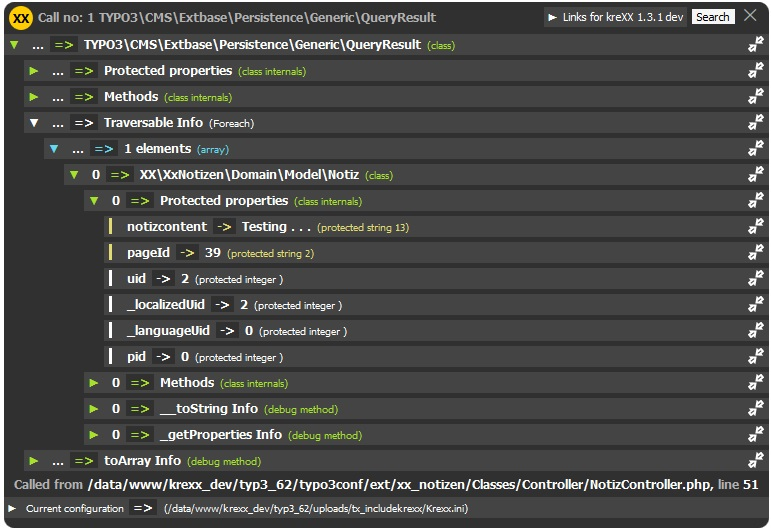
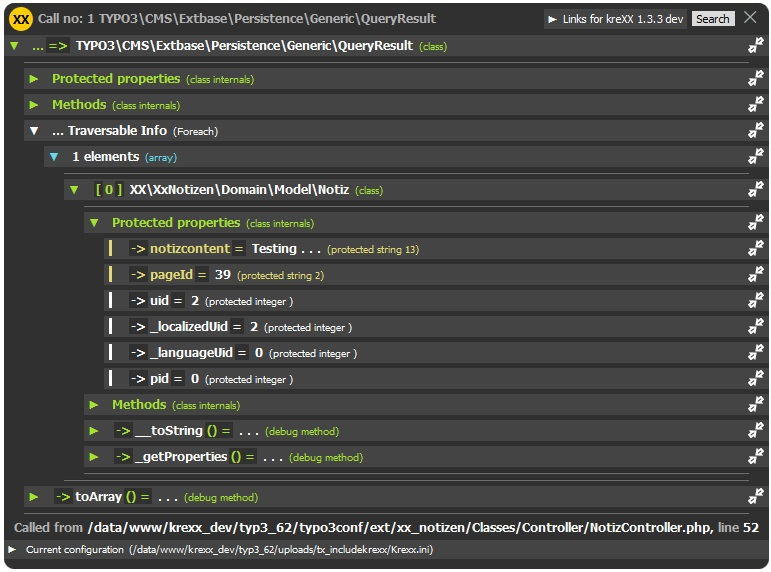
- Updated to the latest dev version - Added local browser settings menu in the backend - Updated documentation

diff --git a/includekrexx/Resources/Private/Layouts/Backend.html b/includekrexx/Resources/Private/Layouts/Backend.html
@@ -61,7 +61,7 @@ select:disabled {
 }
 
 .krexx-config img {
-  padding: 3px;
+  margin: 3px;
   cursor: help;
 }
 a.krexx-link {
@@ -79,17 +79,27 @@ select {
   margin: 0 0.5em 0.5em 0!important;
   vertical-align: middle;
 }
+input {
+  margin-right: 3px;
+}
+label {
+  font-weight: normal;
+}
+
 .typo3-docheader-buttons {
   background-color: #dadada;
-  line-height: 27px;
-  height: 21px;
-  padding: 3px 24px;
+  height: 18px;
+  line-height: 0;
+  padding: 2px 24px;
 }
 
 .typo3-docheader-functions {
   background-color: #585858;
-  height: 22px;
+  height: 27px;
   padding: 0 24px;
+}
+td.cbx {
+  width: 330px;
 }
 
 </style>
@@ -98,6 +108,7 @@ select {
       <div class="typo3-docheader-functions">
         <f:be.menus.actionMenu>
           <f:be.menus.actionMenuItem label="Edit configuration file" controller="Index" action="editConfig" />
+          <f:be.menus.actionMenuItem label="Edit local browser settings" controller="Index" action="editLocalBrowserSettings" />
           <f:be.menus.actionMenuItem label="Edit FE configuration" controller="Index" action="editFeConfig" />
           <f:be.menus.actionMenuItem label="Usage help" controller="Index" action="usageHelp" />
           <f:be.menus.actionMenuItem label="Config help" controller="Index" action="configHelp" />

diff --git a/includekrexx/Resources/Private/Layouts/BackendSave.html b/includekrexx/Resources/Private/Layouts/BackendSave.html
@@ -148,6 +148,7 @@ toggle = function(checkbox) {
       <div class="typo3-docheader-functions">
           <f:be.menus.actionMenu>
             <f:be.menus.actionMenuItem label="Edit configuration file" controller="Index" action="editConfig" />
+            <f:be.menus.actionMenuItem label="Edit local browser settings" controller="Index" action="editLocalBrowserSettings" />
             <f:be.menus.actionMenuItem label="Edit FE configuration" controller="Index" action="editFeConfig" />
             <f:be.menus.actionMenuItem label="Usage help" controller="Index" action="usageHelp" />
             <f:be.menus.actionMenuItem label="Config help" controller="Index" action="configHelp" />

diff --git a/includekrexx/Resources/Private/Templates/Index/EditLocalBrowserSettings.html b/includekrexx/Resources/Private/Templates/Index/EditLocalBrowserSettings.html
@@ -1,0 +1,8 @@
+<f:layout name="Backend"/>
+<f:section name="main">
+  <p>
+    <h1>Edit local browser settings</h1>
+    Here you can edit the local browser settings. They are stored in a cookie, and only affect your current browser. Unlike the configuration file, not all settings can be edited here by default. This can be changed in the <i>Edit FE configuration</i> menu. Local browser settings overwrite configuration file settings.<br/><br/>
+    <b>Please note, that these settings only affect your current browser!</b>
+  </p>
+</f:section>

diff --git a/includekrexx/Resources/Private/Templates/Index/UsageHelp.html b/includekrexx/Resources/Private/Templates/Index/UsageHelp.html
@@ -46,4 +46,7 @@
   <div class="codeblock">
     <pre><code>\krexx::unregisterFatal();</code></pre>
   </div>
+  <h4>Mode datailed help</h4>
+  <a class="krexx-link" target="_blank" href="http://docs.typo3.org/typo3cms/extensions/includekrexx/">Documentation at Typo3 Docs</a><br/>
+  <a class="krexx-link" target="_blank" href="http://sourceforge.net/p/krexx/wiki/Overview/">Documentation at sourceforge</a>
 </f:section>

diff --git a/includekrexx/Resources/Private/krexx/resources/skins/hans/skin.css b/includekrexx/Resources/Private/krexx/resources/skins/hans/skin.css
@@ -589,5 +589,6 @@ li.kchild.krow hr {
   border-bottom: 1px solid rgba(255, 255, 255, 0.3);
   margin-right: 20px;
   margin-top: 0;
+  margin-bottom: 5px;
   background-color: transparent;
 }

diff --git a/includekrexx/Resources/Private/krexx/src/analysis/Variables.php b/includekrexx/Resources/Private/krexx/src/analysis/Variables.php
@@ -33,6 +33,7 @@
 
 namespace Brainworxx\Krexx\Analysis;
 
+use Brainworxx\Krexx\Framework\Toolbox;
 use Brainworxx\Krexx\View;
 
 /**
@@ -41,6 +42,35 @@ use Brainworxx\Krexx\View;
  * @package Krexx
  */
 class Variables {
+
+  /**
+   * List of all cahrsets that can be savely encoded via htmlentities().
+   *
+   * @var array
+   */
+  static protected $charsetList = array(
+    'UTF-8',
+    'ISO-8859-1',
+    'ISO-8859-5',
+    'ISO-8859-15',
+    'cp866',
+    'ibm866',
+    'cp1251',
+    'Windows-1251',
+    'cp1252',
+    'Windows-1252',
+    'KOI8-R',
+    'koi8r',
+    'BIG5',
+    'GB2312',
+    'Shift_JIS',
+    'SJIS',
+    'SJIS-win',
+    'cp932',
+    'EUC-JP',
+    'EUCJP',
+    'eucJP-win',
+  );
 
   /**
    * Render a 'dump' for a NULL value.
@@ -233,25 +263,25 @@ class Variables {
   public static function encodeString($data, $code = FALSE) {
     $result = '';
     // Try to encode it.
-    $encoding = mb_detect_encoding($data);
-    if (in_array($encoding, get_html_translation_table(HTML_ENTITIES))) {
-      set_error_handler(function() { /* do nothing. */ });
+    $encoding = mb_detect_encoding($data, self::$charsetList);
+    if ($encoding !== FALSE) {
+      set_error_handler(function () { /* do nothing. */ });
       $result = @htmlentities($data, NULL, $encoding);
       restore_error_handler();
       // We are also encoding @, because we need them for our chunks.
       $result = str_replace('@', '&#64;', $result);
     }
+
     // Check if encoding was successful.
     if (strlen($result) === 0 && strlen($data) !== 0) {
       // Something went wrong with the encoding, we need to
       // completely encode this one to be able to display it at all!
       $data = @mb_convert_encoding($data, 'UTF-32', mb_detect_encoding($data));
-      $char_array = unpack("N*", $data);
 
       if ($code) {
         // We are displaying sourcecode, so we need
         // to do some formatting.
-        $anon_function = function($n){
+        $anon_function = function ($n) {
           if ($n == 9) {
             // Replace TAB with two spaces, it's better readable that way.
             $result = '&nbsp;&nbsp;';
@@ -264,12 +294,23 @@ class Variables {
       }
       else {
         // No formatting.
-        $anon_function = function($n){
+        $anon_function = function ($n) {
           return "&#$n;";
         };
       }
-      $char_array = array_map($anon_function, $char_array);
-      $result = implode("", $char_array);
+
+      // Here we have another SPOF. When the string is large enough
+      // we will run out of memory!
+      // @see https://sourceforge.net/p/krexx/bugs/21/
+      // We will *NOT* return the unescaped string. Se we must check if it
+      // is small enough for the unpack().
+      // 100 kb should be save enough.
+      if (strlen($data) < 102400) {
+        $result = implode("", array_map($anon_function, unpack("N*", $data)));
+      }
+      else {
+        $result = 'This is a very large string with a none-standard encoding.' . "\n\n" . 'For security reasons, we must escape it, but it is too large for this. Sorry.';
+      }
     }
     else {
       if ($code) {

diff --git a/includekrexx/ext_tables.php b/includekrexx/ext_tables.php
@@ -47,7 +47,7 @@ if (TYPO3_MODE === 'BE') {
       // Position of the module.
       '',
       // Allowed controller action combinations.
-      array('Index' => 'editConfig,editFeConfig,usageHelp,configHelp,saveConfig,saveFeConfig'),
+      array('Index' => 'editConfig,editFeConfig,usageHelp,configHelp,saveConfig,saveFeConfig,editLocalBrowserSettings'),
       array(
         'access' => 'user,group',
         'icon' => 'EXT:includekrexx/ext_icon.gif',
@@ -65,7 +65,7 @@ if (TYPO3_MODE === 'BE') {
       // Position of the module.
       '',
       // Allowed controller action combinations.
-      array('Index' => 'editConfig,editFeConfig,usageHelp,configHelp,saveConfig,saveFeConfig'),
+      array('Index' => 'editConfig,editFeConfig,usageHelp,configHelp,saveConfig,saveFeConfig,editLocalBrowserSettings'),
       array(
         'access' => 'user,group',
         'icon' => 'EXT:includekrexx/ext_icon.gif',

diff --git a/includekrexx/ext_emconf.php b/includekrexx/ext_emconf.php
@@ -14,7 +14,7 @@ $EM_CONF[$_EXTKEY] = array(
   'title' => 'Include kreXX',
   'description' => 'kreXX is a php debugger with a fatal error handler. It displays debug information about objects and variables in it\'s own draggable output.',
   'category' => 'fe',
-  'version' => '1.3.3',
+  'version' => '1.3.3 dev',
   'state' => 'stable',
   'uploadfolder' => 1,
   'clearCacheOnLoad' => 1,

diff --git a/includekrexx/Classes/Controller/IndexController.php b/includekrexx/Classes/Controller/IndexController.php
@@ -105,6 +105,12 @@ class Tx_Includekrexx_Controller_IndexController extends Tx_Extbase_MVC_Controll
   }
 
   /**
+   * simply display the kreXX local browser configuration.
+   */
+  public function editLocalBrowserSettingsAction() {
+    \krexx::editSettings();
+  }
+  /**
    * Shows the configuration for the FE editing.
    */
   public function editFeConfigAction() {

diff --git a/includekrexx/Documentation/Introduction/Index.rst b/includekrexx/Documentation/Introduction/Index.rst
@@ -13,7 +13,7 @@ kreXX will be called from within the PHP source code:
 
 .. code-block:: php
 
-	\krexx($myObject);
+	krexx($myObject);
 
 
 
